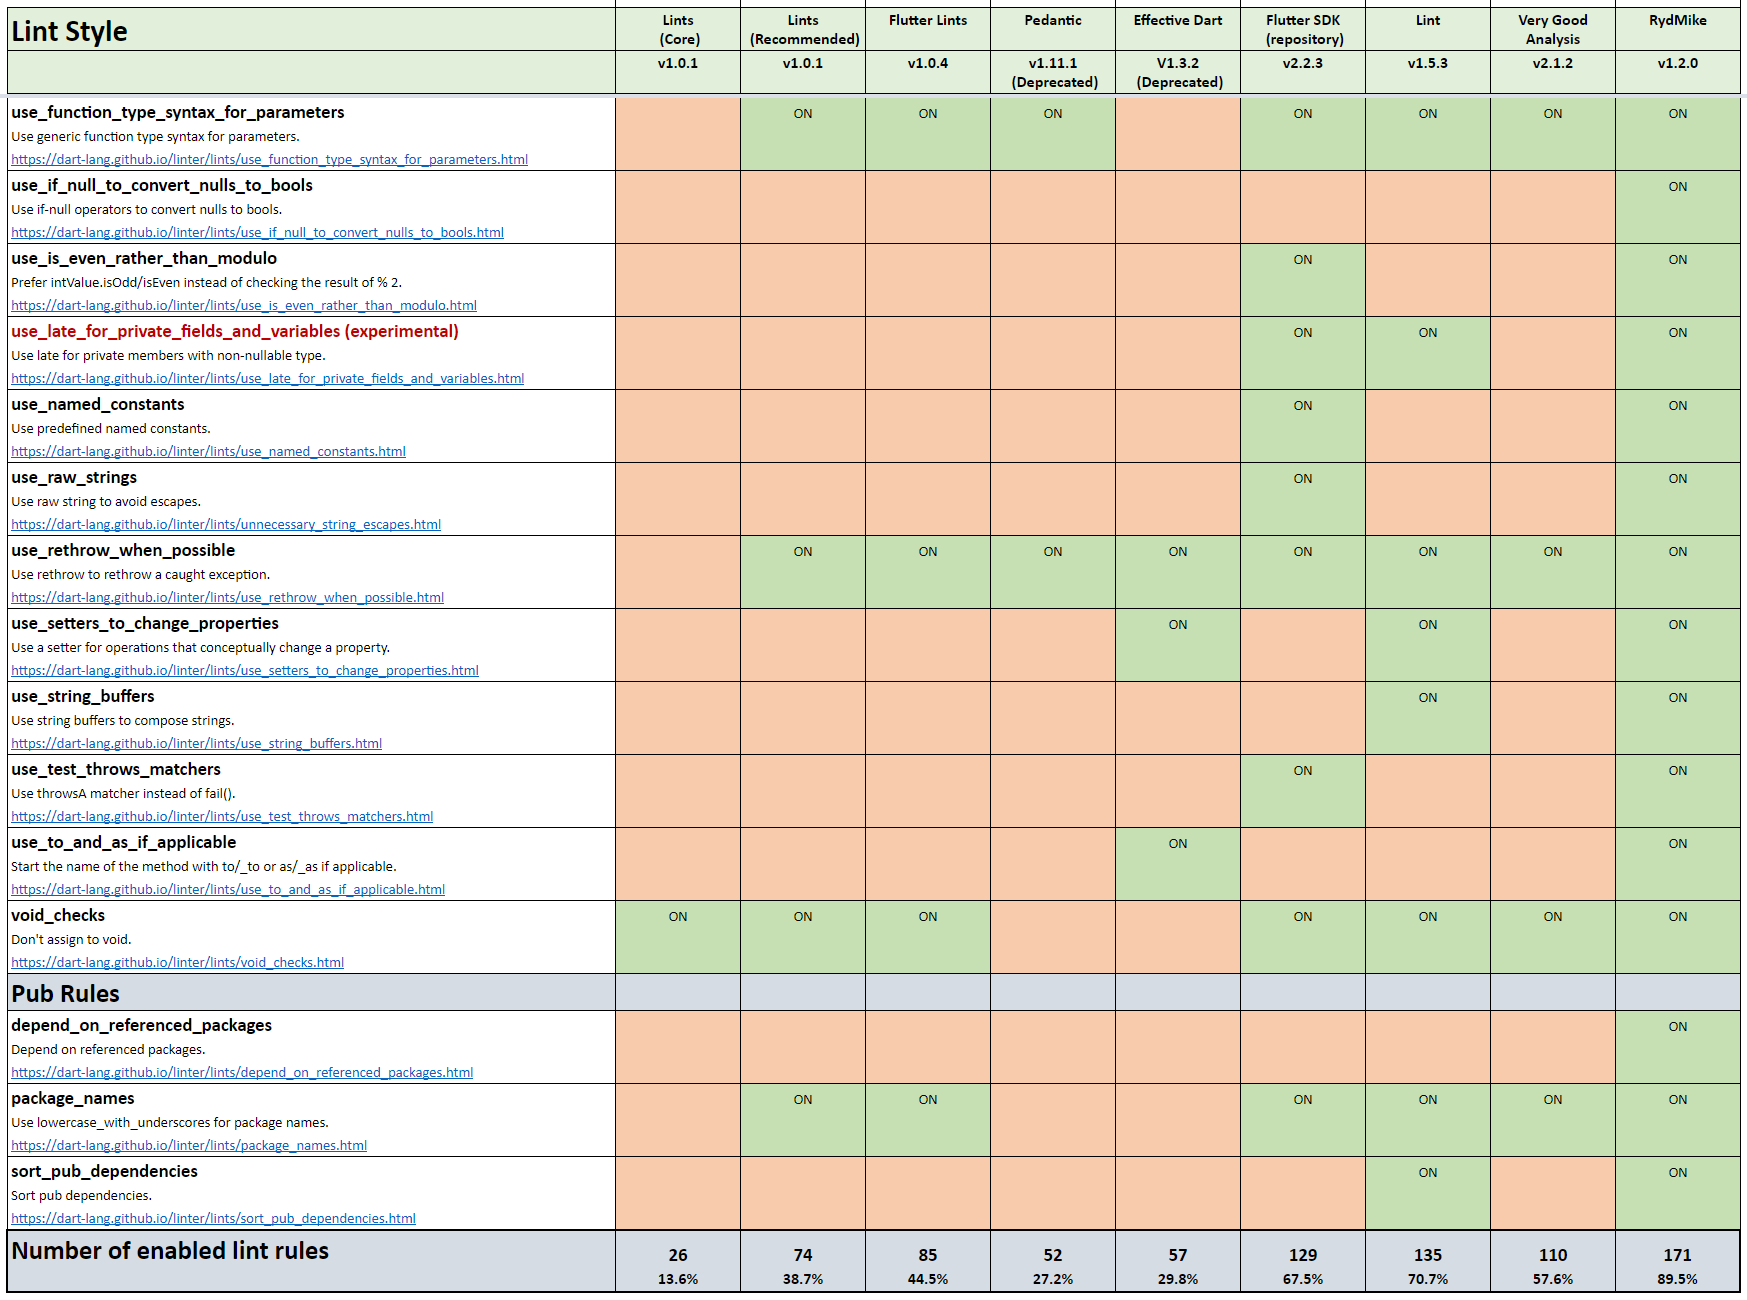
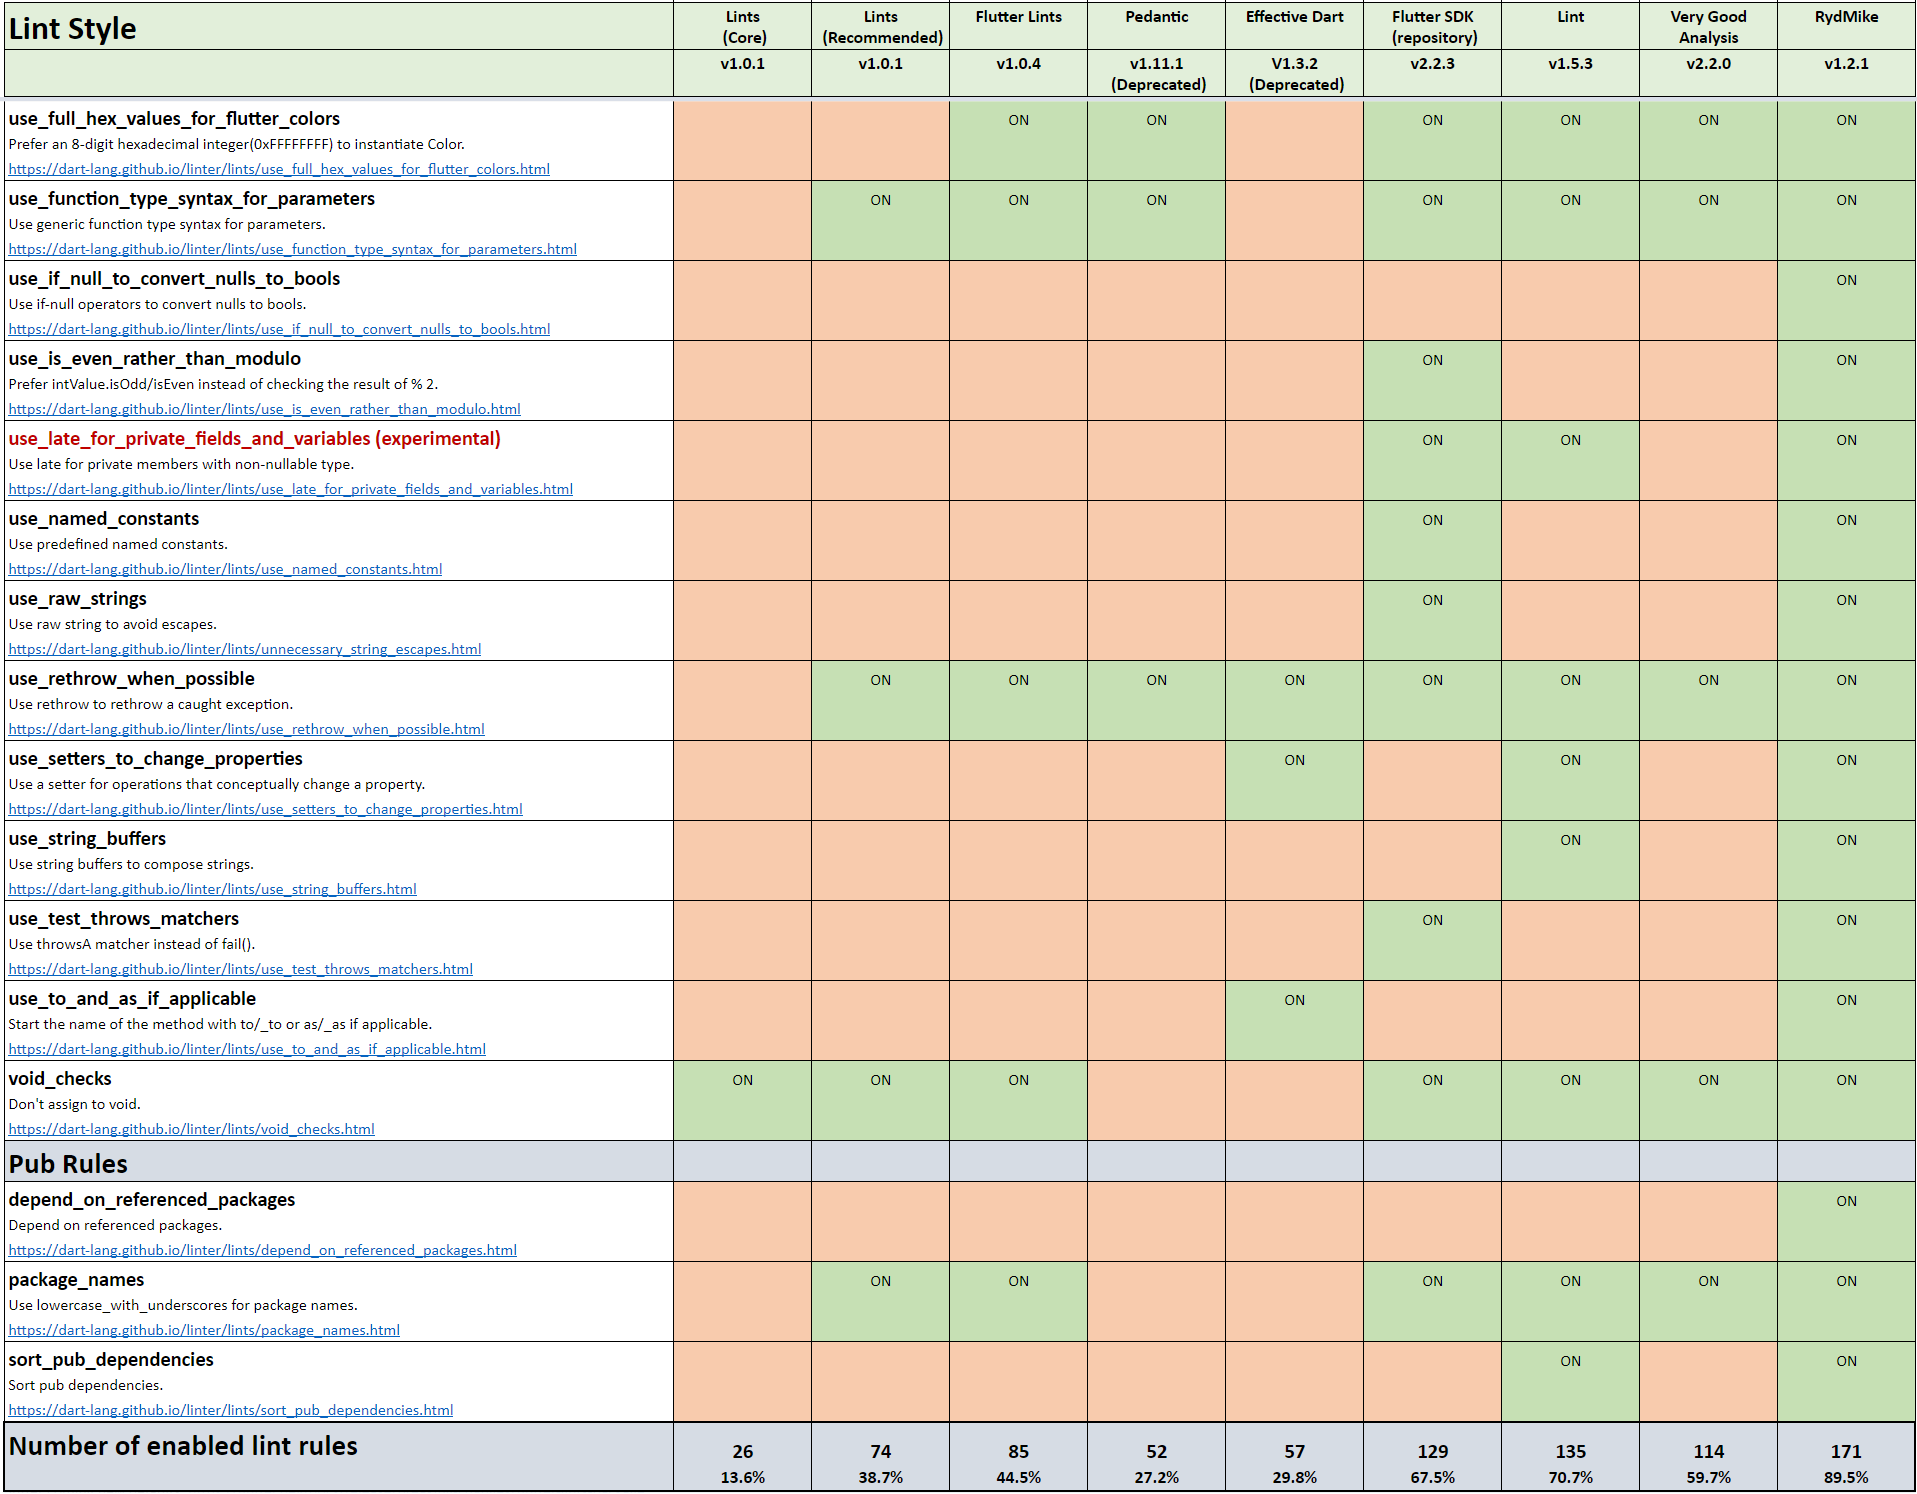
Update linter comparison blog, typos, clarifications and extended version.

diff --git a/blog_flutter_linting.md b/blog_flutter_linting.md
@@ -33,7 +33,7 @@ To study and read more about each lint rule, you can head over to the [Linter fo
 
 Personally I like to start by enabling all lint rules in one file, and then including it in 
 my `analysis_options.yaml` file. I simply call this file `all_lint_rules.yaml`.
-You can grab the latest official and always up to date version of all lint rules
+You can grab the latest official and always up-to-date version of all lint rules
 [here](https://dart-lang.github.io/linter/lints/options/options.html).
 
 Both the `analysis_options.yaml` and the `all_lint_rules.yaml` can be placed in the root of your
@@ -71,7 +71,7 @@ analyzer:
     implicit-dynamic: false
 
   errors:
-    # Otherwise we cause the import of all_lint_rules to warn, because of some rules conflicts.
+    # Without ignore here, we cause import of all_lint_rules to warn, because some rules conflict.
     # We explicitly enabled even conflicting rules and are fixing the conflicts in this file.
     included_file_warning: ignore
 
@@ -96,12 +96,14 @@ analyzer:
     # pretty much goes away. Considering the comment in:
     # https://dart-lang.github.io/linter/lints/parameter_assignments.html:
     # "Assigning new values to parameters is generally a bad practice unless an operator
-    #  such as ??= is used. Otherwise, arbitrarily reassigning parameters is usually a mistake."
-    # One might even think the rule would allow using the ??= operator, but it does not. For now
+    # such as ??= is used. Otherwise, arbitrarily reassigning parameters is usually a mistake."
+    # One might even think the rule would allow using the ??= operator, but it does not. For now,
     # I am keeping this lint as warning and overriding locally with
-    #  ignore: parameter_assignments
+    #
+    # ignore: parameter_assignments
+    #
     # when I need it for the ??= operator, or some copy/paste in of some code that does things
-    # that needs it too and that I don't want to deal with fixing at the moment.
+    # that needs it too, and that I don't want to deal with fixing at the moment.
     parameter_assignments: warning
 
     # Allow having TODOs in the code.
@@ -120,11 +122,15 @@ As for what actually gets turned OFF, first there are some linting rules that co
 with each other. When it comes to them, you can go two ways. If you don't want to 
 make a choice and want to be able to use both alternatives, then disable 
 both rules. Alternatively choose one of them and disable the one you do not want to use.
-I prefer to make choice, the conflicting rules are often highly opinionated.
+I prefer to make a choice, the conflicting rules are often highly opinionated, in certain
+scenarios, it might be more lenient to allow both options, but if it is a personal
+project, then go ahead and use what you prefer.
 
-A typical example of this is the `prefer_double_quotes` versus `prefer_single_quotes` choice.
+A typical example of a personal preference linting rule, is the `prefer_double_quotes` 
+versus `prefer_single_quotes` choice. Even if a linting rule is highly opinionated, in 
+large project you may still want to make choice to enforce a consistent style.
 
-Here is my choice and my rationale on this topic:
+Here is my choice and my rationale on the quote style:
 
 ```yaml
 # DO use double quotes where they wouldn't require additional escapes.
@@ -136,15 +142,15 @@ Here is my choice and my rationale on this topic:
 # `prefer_single_quotes` : "DO use single quotes where they wouldn't require additional escapes."
 # https://dart-lang.github.io/linter/lints/prefer_single_quotes.html
 #
-# Imo single quotes are easier to type. On my ISO keyboard it is next to Enter key and I don't need
-# the Shit plus the far to reach nr 2 key on R1 to type it. Also, I don't think they compromise on
+# Imo single quotes are easier to type. On my ISO keyboard it is next to Enter key, and I don't need
+# the Shift plus the far to reach nr 2 key on R1 to type it. Also, I don't think they compromise on
 # readability. Then again if you don't care and don't mind mixing and matching, then ALSO
-# turning OFF `prefer_single_quotes` works fine too and you can use either.
+# turning OFF `prefer_single_quotes` works fine too, and then you can use both options.
 #
-# I thought it was cleaner to stick to one style and, single quotes are easier to type for me,
+# I thought it was cleaner to stick to one style. Single quotes are easier to type for me,
 # thus I turn OFF this `prefer_double_quotes` rule. There is another lint rules that recommends you
 # to use double quotes when you otherwise would need to escape the single quote char, it works
-# well you use the prefer_single_quotes rule as well.
+# well when you use the prefer_single_quotes rule as well.
 #
 # Other known linters use:
 #
@@ -167,7 +173,7 @@ I documented the choices I made, and the reasoning behind the choices at the poi
 made them. I vary it slightly depending on if I am using linting for a package or an app, 
 keeping it even stricter for public packages. These options and selections are also documented.
 
-[**Here is a Gist**](https://gist.github.com/rydmike/fdb53ddd933c37d20e6f3188a936cd4c) with the full 
+[Here is a Gist](https://gist.github.com/rydmike/fdb53ddd933c37d20e6f3188a936cd4c) with the full 
 details of the settings I use in `analysis_options.yaml` for my personal projects.
 
 I might change a few settings as things evolve. One rule I found myself disliking recently and 
@@ -177,10 +183,11 @@ However, **after that** I want to see all the properties of the
 default constructor, with their documentation comments. I find this useful for more complex
 packages that may have constructors with a lot of named parameters.
 
-If the `sort_constructors_first` rule is enabled, I am forced to scroll down to find the
-properties far below after other named constructors and factories. This is just another minor 
-example of personal style preference. There are many lint rules that 
-are style and code consistency related. Get to know them and find your own personal preferences.
+If the `sort_constructors_first` rule is enabled, I am forced to use an order where I have to 
+scroll far down to find the properties much further below, after all the named constructors 
+and factories. I find this very inconvenient. This is another minor example of personal style 
+preference. There are many lint rules that are style and code consistency related. 
+Get to know them and find your own personal preferences.
 
 When you disable a lint rule, try to write a short note to your future self why you disabled it.
 This is what I wrote down concerning why I turned off the `sort_constructors_first` rule. 
@@ -193,7 +200,7 @@ This is what I wrote down concerning why I turned off the `sort_constructors_fir
 # in the way of that and forces you to put (often final) constructor properties after all
 # the named constructors and factories, making them tedious to find and disconnected from
 # where I want to see, read and handily edit them. This is especially the case if there are
-# many constructors and factories and they have a lot of parameters. For now, I disable
+# many constructors and factories, and they have a lot of parameters. For now, I disable
 # this rule and order things as described above, which apart from the default constructor
 # properties coming right after the constructor, is the only part where I in practice
 # deviate from this rule, so other than that I do put constructors first as well.
@@ -214,7 +221,7 @@ sort_constructors_first: false
 ```
 
 The above is also an example of the documentation style I use for all lint rules that
-I turn OFF. Yes it is verbose, but now I can find my past reasoning for the choice I made. 
+I turned OFF. Yes it is verbose, but now I can find my past reasoning for the choice I made. 
 I can also find references to what others have chosen as their lint preference for each rule 
 that I do not use.
 
@@ -250,8 +257,8 @@ If I want to use a package, which lint package should I use?
 Answering this question recently got a lot easier. First, both the package
 [Effective Dart](https://pub.dev/packages/effective_dart) and [Pedantic](https://pub.dev/packages/pedantic)
 have been deprecated. For a new project I do not recommend them anymore. 
-
 Pedantic was from Google, despite its name, it was not very strict nor pedantic.
+
 Dart and Flutter teams recently launched two new lint packages, let us take a look at them.
 
 ### Lints
@@ -278,7 +285,7 @@ Here is the even bigger thing making it the obvious choice. Projects created
 with **flutter create** using Flutter **version 2.3.0-12.0.pre or newer** are 
 automatically enabled to use the **Flutter lints** package. 
 
-When this is written, Flutter stable channel is still on version 2.2.3, you will not yet get
+When this is written, Flutter stable channel is still on version 2.2.3, so you will not yet get
 these lints automatically enabled when you create a new Flutter project on stable 
 channel. It is however coming soon, and you can of course easily make your Flutter project 
 use these lints already now.
@@ -287,22 +294,32 @@ You can find the instructions [here](https://flutter.dev/docs/release/breaking-c
 
 Since this lint rule set is arriving soon as the new default lint package for new Flutter
 projects, there is no sense in recommending any other linter package than 
-[**flutter_lints**](https://pub.dev/packages/flutter_lints).
+[flutter_lints](https://pub.dev/packages/flutter_lints).
 
 ### I Prefer...
 
-All that being said, as long as [**Lint**](https://pub.dev/packages/lint) or 
-[**Very Good Analysis**](https://pub.dev/packages/very_good_analysis) 
+All that being said, as long as [Lint](https://pub.dev/packages/lint) or 
+[Very Good Analysis](https://pub.dev/packages/very_good_analysis) 
 have not been deprecated, and you are used to them, or already using them, or just prefer them, or 
 even some other comparable lint package, they are still perfectly good choices as well.
 
-If you want to stay on top of your linting rule setup yourself, then do as I do and roll your
-own. Mostly I do this to use even stricter lint rules than package linters use,
-and to make the opinionated choices I prefer. Most lint packages on purpose avoid making 
-any choice for you when it comes to the opinionated personal preferences rules.
+They both enable more lint rules than the new upcoming default **flutter_lints**. Both **lint** and 
+**very_good_analysis** use strong mode and disable implicits casts, and Very Good Analysis also
+wisely opts to disable implicit dynamic. Out of packaged linters **lint** enables the most
+rules of the compared options, if we exclude my own preferences in the comparison.
+The **lint** package also includes excellent reasoning documentation for its lint rule choices 
+in the source, allowing you to read and understand the author's rationale for the used
+choices. It also comes with a variant for packages, adding a few useful rules for
+public packages.
 
-I also like the clean setup of enabling all rules and turning off 
-the ones I don't use, it keeps the setup easy to maintain. 
+If you want to stay on top of your linting rule setup yourself, then do as I do, and 
+roll your own linting rule setup. Mostly I do this to use even stricter lint rules than current 
+package linters offer, and to make the opinionated choices I prefer. 
+Most lint packages on purpose avoid making any choice for you when it comes to highly  
+opinionated personal preferences rules.
+
+I also like the clean setup of enabling all rules in one file that include all currently 
+available rules and turning off the ones I don't use. This keeps the setup easy to maintain. 
 Feel free to do the same **or** take the easy
 route and start using [flutter_lints](https://pub.dev/packages/flutter_lints) now. 
 
@@ -316,20 +333,23 @@ improve the quality of produced Flutter apps.
 ## What Are the Rule Differences Between All These Packages?
 
 What are the lint rule differences between all these packages? That is a **very** good question.
-I guess I saved the most interesting part for last. I was very curious about this as well, so I went through 
-the lint settings for the following lint packages and setups:
+I guess I saved the most interesting part for last. I was very curious about this as well, so I went 
+through **all** the lint settings for the following lint packages and setups:
 
-- [Dart Core](https://pub.dev/packages/lint)
-- [Dart Recommended](https://pub.dev/packages/lints)    
-- [Flutter Lints](https://pub.dev/packages/flutter_lints)  
-- [Pedantic *(Deprecated)*](https://pub.dev/packages/pedantic)
-- [Effective Dart *(Deprecated)*](https://pub.dev/packages/effective_dart)
-- [Flutter SDK repository](https://github.com/flutter/flutter/blob/master/analysis_options.yaml)
-- [Lint](https://pub.dev/packages/lint)
-- [Very Good Analysis](https://pub.dev/packages/very_good_analysis)
-- [RydMike - Turn ON all and then turn a few selected ones OFF](https://gist.github.com/rydmike/fdb53ddd933c37d20e6f3188a936cd4c)
+| Lint style   | Used rules             |  % |
+| ----         | ----                   | ---- |
+|[Dart Core *(v1.0.1)*](https://pub.dev/packages/lint) | 26 | 13.6%|
+|[Dart Recommended *(v1.0.1)*](https://pub.dev/packages/lints) | 74 | 38.7% |    
+|[Flutter Lints *(v1.0.4)*](https://pub.dev/packages/flutter_lints) | 85 | 44.5% |  
+|[Pedantic *(v1.11.1) (Deprecated)*](https://pub.dev/packages/pedantic) | 52 | 27.2% |
+|[Effective Dart *(v1.3.2) (Deprecated)*](https://pub.dev/packages/effective_dart) | 57 | 29.8% |
+|[Flutter SDK repository *(v2.2.3)*](https://github.com/flutter/flutter/blob/master/analysis_options.yaml) | 129 | 67.5% |
+|[Lint *(v1.5.3)*](https://pub.dev/packages/lint) | 135 | 70.7% |
+|[Very Good Analysis *(v2.2.0)*](https://pub.dev/packages/very_good_analysis) | 114 | 59.7% |
+|[RydMike - All ON, then turn a few OFF *(v1.2.1)*](https://gist.github.com/rydmike/fdb53ddd933c37d20e6f3188a936cd4c) | 171 | 89.5%|
+|[All lint rules](https://dart-lang.github.io/linter/lints/options/options.html) | 191 | 100.0% |
 
-Ok enough talk, here is the comparison in a [**Google Sheet**](https://docs.google.com/spreadsheets/d/1Nc1gFjmCOMubWZD7f2E4fLhWN7LYaOE__tsA7bf2NjA), enjoy!
+Enough talk, here is the comparison in a [**Google Sheet**](https://docs.google.com/spreadsheets/d/1Nc1gFjmCOMubWZD7f2E4fLhWN7LYaOE__tsA7bf2NjA), enjoy!
 
 [<img src="https://rydmike.com/assets/lint_compare.png?raw=true" alt="lint_compare"/>](https://docs.google.com/spreadsheets/d/1Nc1gFjmCOMubWZD7f2E4fLhWN7LYaOE__tsA7bf2NjA)
 
@@ -337,4 +357,4 @@ Ok enough talk, here is the comparison in a [**Google Sheet**](https://docs.goog
 notice any, please let me know, and I will update it. You can find me on [Twitter](https://twitter.com/RydMike)*
 
 ---
-*(Page updated July 28, 2021)*
+*(Page updated July 31, 2021)*
